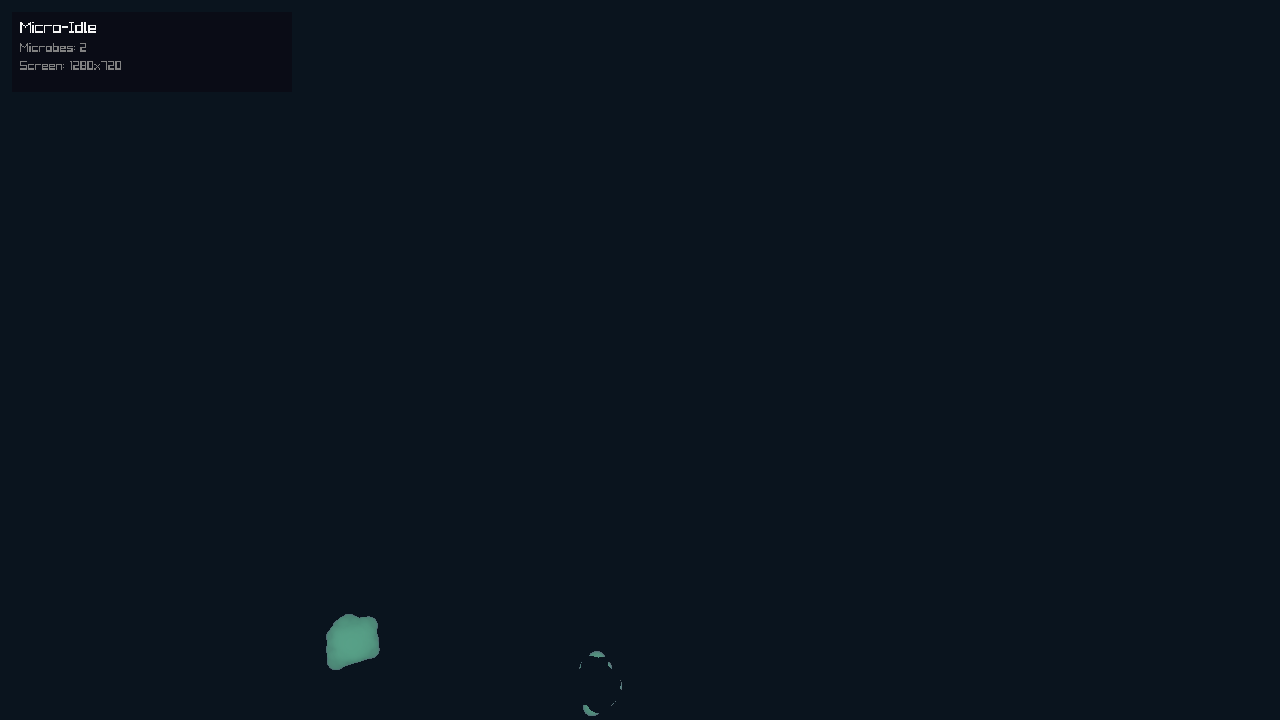
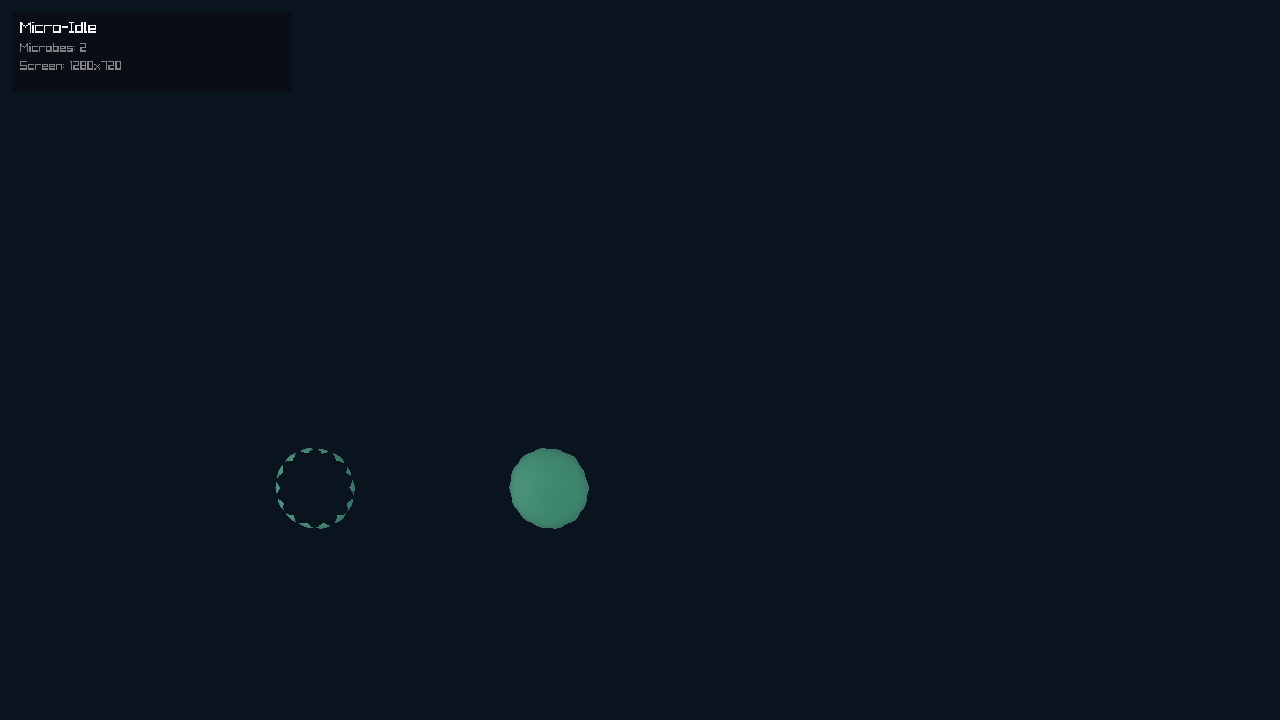
fix the stupid twin shadow bug

diff --git a/game/xpbd.c b/game/xpbd.c
@@ -209,7 +209,6 @@ struct XpbdContext {
     // Metaball shader uniform locations
     int loc_field_vp;
     int loc_field_ppm;
-    int loc_field_radius;
     int loc_surface_field_tex;
     int loc_surface_time;
     int loc_surface_threshold;
@@ -234,7 +233,8 @@ struct XpbdContext {
     int loc_collide_radius;
 
     int loc_solve_dt;
-    int loc_solve_count;
+    int loc_solve_mcount;
+    int loc_solve_cpm;
 
     int loc_pressure_dt;
     int loc_pressure_count;
@@ -242,8 +242,6 @@ struct XpbdContext {
 
     int loc_finalize_dt;
     int loc_finalize_pcount;
-    int loc_finalize_ccount;
-    int loc_finalize_mode;
 
     int loc_microbe_count;
     int loc_microbe_ppm;
@@ -287,7 +285,6 @@ static bool init_metaball_pipeline(XpbdContext *ctx) {
     // Get uniform locations
     ctx->loc_field_vp = glGetUniformLocation(ctx->field_shader, "u_vp");
     ctx->loc_field_ppm = glGetUniformLocation(ctx->field_shader, "u_particles_per_microbe");
-    ctx->loc_field_radius = glGetUniformLocation(ctx->field_shader, "u_particle_radius");
 
     ctx->loc_surface_field_tex = glGetUniformLocation(ctx->surface_shader, "u_field_texture");
     ctx->loc_surface_time = glGetUniformLocation(ctx->surface_shader, "u_time");
@@ -449,7 +446,8 @@ XpbdContext *xpbd_create(int max_microbes) {
     ctx->loc_collide_radius = glGetUniformLocation(ctx->collide_program, "u_collision_radius");
 
     ctx->loc_solve_dt = glGetUniformLocation(ctx->solve_program, "u_dt");
-    ctx->loc_solve_count = glGetUniformLocation(ctx->solve_program, "u_constraint_count");
+    ctx->loc_solve_mcount = glGetUniformLocation(ctx->solve_program, "u_microbe_count");
+    ctx->loc_solve_cpm = glGetUniformLocation(ctx->solve_program, "u_constraints_per_microbe");
 
     ctx->loc_pressure_dt = glGetUniformLocation(ctx->pressure_program, "u_dt");
     ctx->loc_pressure_count = glGetUniformLocation(ctx->pressure_program, "u_microbe_count");
@@ -457,8 +455,6 @@ XpbdContext *xpbd_create(int max_microbes) {
 
     ctx->loc_finalize_dt = glGetUniformLocation(ctx->finalize_program, "u_dt");
     ctx->loc_finalize_pcount = glGetUniformLocation(ctx->finalize_program, "u_particle_count");
-    ctx->loc_finalize_ccount = glGetUniformLocation(ctx->finalize_program, "u_constraint_count");
-    ctx->loc_finalize_mode = glGetUniformLocation(ctx->finalize_program, "u_mode");
 
     ctx->loc_microbe_count = glGetUniformLocation(ctx->microbe_update_program, "u_microbe_count");
     ctx->loc_microbe_ppm = glGetUniformLocation(ctx->microbe_update_program, "u_particles_per_microbe");
@@ -517,20 +513,35 @@ void xpbd_spawn_microbe(XpbdContext *ctx, float x, float z, int type, float seed
     int p_start = m_id * XPBD_PARTICLES_PER_MICROBE;
     int c_start = m_id * XPBD_CONSTRAINTS_PER_MICROBE;
 
-    // Particle distribution: filled disc with uniform density
-    // Ring structure: center (1) + inner (6) + middle (11) + outer (14) = 32 particles
+    // Particle distribution: irregular amoeba-like blob
+    // Use ring structure with random perturbations for organic appearance
     const int ring_counts[4] = {1, 6, 11, 14};
     const float ring_radii[4] = {0.0f, 0.35f, 0.7f, 1.05f};
+    const float TWO_PI = 2.0f * 3.14159265358979323846f;
     int particle_idx = 0;
 
     for (int ring = 0; ring < 4; ring++) {
-        int count = ring_counts[ring];
-        float radius = ring_radii[ring];
+        const int count = ring_counts[ring];
+        const float radius = ring_radii[ring];
 
         for (int i = 0; i < count; i++) {
-            float angle = (count > 1) ? ((float)i / (float)count * 2.0f * 3.14159f) : 0.0f;
-            float px = x + cosf(angle) * radius;
-            float pz = z + sinf(angle) * radius;
+            // Base angle from index
+            float angle = (count > 1) ? ((float)i / (float)count * TWO_PI) : 0.0f;
+
+            // Add random perturbations for organic, amoeba-like appearance
+            // Simple hash function for deterministic randomness
+            float hash_seed = seed * 1000.0f + (float)(ring * 100 + i);
+            float hash1 = fmodf(sinf(hash_seed * 127.1f) * 43758.5453123f, 1.0f);
+            float hash2 = fmodf(sinf(hash_seed * 1.7f * 127.1f) * 43758.5453123f, 1.0f);
+
+            float angle_jitter = (hash1 - 0.5f) * 0.8f;  // +/- 0.4 radians
+            float radius_jitter = (hash2 - 0.5f) * 0.3f;  // +/- 15% radius
+
+            angle += angle_jitter;
+            float actual_radius = radius * (1.0f + radius_jitter);
+
+            const float px = x + cosf(angle) * actual_radius;
+            const float pz = z + sinf(angle) * actual_radius;
 
             XpbdParticle *p = &ctx->particles_cpu[p_start + particle_idx];
             p->pos[0] = px;
@@ -558,26 +569,28 @@ void xpbd_spawn_microbe(XpbdContext *ctx, float x, float z, int type, float seed
     }
 
     // Simplified constraint network for stability
-    float stiffness = AMOEBA_STIFFNESS;
-    float compliance = 1.0f / (stiffness * 100.0f);  // Stiffer for shape retention
+    // Pure approach: deterministic constraint creation without conditional side effects
+    const float stiffness = AMOEBA_STIFFNESS;
+    const float base_compliance = 1.0f / (stiffness * 100.0f);
     int c_idx = 0;
 
-    #define ADD_CONSTRAINT(i1, i2, compl_mult) { \
-        XpbdParticle *p1 = &ctx->particles_cpu[p_start + (i1)]; \
-        XpbdParticle *p2 = &ctx->particles_cpu[p_start + (i2)]; \
-        float dx = p1->pos[0] - p2->pos[0]; \
-        float dz = p1->pos[2] - p2->pos[2]; \
-        float rest_len = sqrtf(dx * dx + dz * dz); \
-        if (rest_len > 0.001f && c_idx < XPBD_CONSTRAINTS_PER_MICROBE) { \
+    // Helper function-like macro: pure computation, always increments c_idx
+    #define ADD_CONSTRAINT(i1, i2, compl_mult) do { \
+        if (c_idx < XPBD_CONSTRAINTS_PER_MICROBE) { \
+            const XpbdParticle *p1 = &ctx->particles_cpu[p_start + (i1)]; \
+            const XpbdParticle *p2 = &ctx->particles_cpu[p_start + (i2)]; \
+            const float dx = p1->pos[0] - p2->pos[0]; \
+            const float dz = p1->pos[2] - p2->pos[2]; \
+            const float rest_len = sqrtf(dx * dx + dz * dz); \
             XpbdConstraint *c = &ctx->constraints_cpu[c_start + c_idx]; \
             c->p1 = p_start + (i1); \
             c->p2 = p_start + (i2); \
             c->rest_length = rest_len; \
-            c->compliance = compliance * (compl_mult); \
+            c->compliance = base_compliance * (compl_mult); \
             c->lambda = 0.0f; \
             c_idx++; \
         } \
-    }
+    } while(0)
 
     // Ring adjacency constraints
     int ring_start[4] = {0, 1, 7, 18};  // Start index of each ring
@@ -610,8 +623,7 @@ void xpbd_spawn_microbe(XpbdContext *ctx, float x, float z, int type, float seed
 
     #undef ADD_CONSTRAINT
 
-
-    // Fill remaining constraint slots (if any) with dummy constraints
+    // Fill remaining constraint slots with dummy constraints
     while (c_idx < XPBD_CONSTRAINTS_PER_MICROBE) {
         XpbdConstraint *c = &ctx->constraints_cpu[c_start + c_idx];
         c->p1 = p_start;
@@ -666,28 +678,14 @@ void xpbd_clear(XpbdContext *ctx) {
     ctx->constraint_count = 0;
 }
 
+// Simplified 3-step physics pipeline
 void xpbd_update(XpbdContext *ctx, float dt, float bounds_x, float bounds_y, float cursor_x, float cursor_z) {
-    if (!ctx || !ctx->ready) return;
-    if (ctx->particle_count == 0) return;
+    if (!ctx || !ctx->ready || ctx->particle_count == 0) return;
 
-    float cell = (bounds_x * 2.0f) / (float)GRID_W;
-    int grid_dim[2] = {GRID_W, GRID_H};
-    int groups_p = (ctx->particle_count + 255) / 256;
-    int groups_c = (ctx->constraint_count + 255) / 256;
-    int groups_m = (ctx->microbe_count + 63) / 64;
+    const int groups_p = (ctx->particle_count + 255) / 256;
+    const int groups_m = (ctx->microbe_count + 63) / 64;
 
-    // Step 1: Reset constraint lambdas
-    glUseProgram(ctx->finalize_program);
-    glUniform1f(ctx->loc_finalize_dt, dt);
-    glUniform1i(ctx->loc_finalize_pcount, ctx->particle_count);
-    glUniform1i(ctx->loc_finalize_ccount, ctx->constraint_count);
-    glUniform1i(ctx->loc_finalize_mode, 1);  // reset lambdas
-    glBindBufferBase(GL_SHADER_STORAGE_BUFFER, 0, ctx->particle_ssbo);
-    glBindBufferBase(GL_SHADER_STORAGE_BUFFER, 1, ctx->constraint_ssbo);
-    glDispatchCompute(groups_c, 1, 1);
-    glMemoryBarrier(GL_SHADER_STORAGE_BARRIER_BIT);
-
-    // Step 2: Predict positions
+    // Step 1: Predict - apply forces and velocities
     glUseProgram(ctx->predict_program);
     glUniform1f(ctx->loc_predict_dt, dt);
     glUniform1i(ctx->loc_predict_count, ctx->particle_count);
@@ -699,76 +697,27 @@ void xpbd_update(XpbdContext *ctx, float dt, float bounds_x, float bounds_y, flo
     glDispatchCompute(groups_p, 1, 1);
     glMemoryBarrier(GL_SHADER_STORAGE_BARRIER_BIT);
 
-    // Step 3: Build spatial grid
-    // Clear head buffer
-    glBindBuffer(GL_SHADER_STORAGE_BUFFER, ctx->grid_head_ssbo);
-    int clear_val = -1;
-    glClearBufferData(GL_SHADER_STORAGE_BUFFER, GL_R32I, GL_RED_INTEGER, GL_INT, &clear_val);
-
-    glUseProgram(ctx->grid_insert_program);
-    glUniform2f(ctx->loc_grid_bounds, bounds_x, bounds_y);
-    glUniform1f(ctx->loc_grid_cell, cell);
-    glUniform2i(ctx->loc_grid_dim, grid_dim[0], grid_dim[1]);
-    glUniform1i(ctx->loc_grid_count, ctx->particle_count);
+    // Step 2: Solve - enforce shape constraints (iterative)
+    glUseProgram(ctx->solve_program);
+    glUniform1f(ctx->loc_solve_dt, dt);
+    glUniform1i(ctx->loc_solve_mcount, ctx->microbe_count);
+    glUniform1i(ctx->loc_solve_cpm, XPBD_CONSTRAINTS_PER_MICROBE);
     glBindBufferBase(GL_SHADER_STORAGE_BUFFER, 0, ctx->particle_ssbo);
-    glBindBufferBase(GL_SHADER_STORAGE_BUFFER, 1, ctx->grid_head_ssbo);
-    glBindBufferBase(GL_SHADER_STORAGE_BUFFER, 2, ctx->grid_next_ssbo);
-    glDispatchCompute(groups_p, 1, 1);
-    glMemoryBarrier(GL_SHADER_STORAGE_BARRIER_BIT);
-
-    // Step 4 & 5: Iteratively solve collisions AND internal constraints
-    // (Collisions must be inside iteration loop to prevent penetration)
+    glBindBufferBase(GL_SHADER_STORAGE_BUFFER, 1, ctx->constraint_ssbo);
     for (int iter = 0; iter < XPBD_SOLVER_ITERATIONS; iter++) {
-        // Inter-microbe collisions
-        glUseProgram(ctx->collide_program);
-        glUniform1f(ctx->loc_collide_dt, dt);
-        glUniform2f(ctx->loc_collide_bounds, bounds_x, bounds_y);
-        glUniform1f(ctx->loc_collide_cell, cell);
-        glUniform2i(ctx->loc_collide_dim, grid_dim[0], grid_dim[1]);
-        glUniform1i(ctx->loc_collide_count, ctx->particle_count);
-        glUniform1f(ctx->loc_collide_radius, 1.8f);  // Keep microbes separated to prevent visual merging
-        glBindBufferBase(GL_SHADER_STORAGE_BUFFER, 0, ctx->particle_ssbo);
-        glBindBufferBase(GL_SHADER_STORAGE_BUFFER, 1, ctx->grid_head_ssbo);
-        glBindBufferBase(GL_SHADER_STORAGE_BUFFER, 2, ctx->grid_next_ssbo);
-        glDispatchCompute(groups_p, 1, 1);
-        glMemoryBarrier(GL_SHADER_STORAGE_BARRIER_BIT);
-
-        // Internal constraints
-        glUseProgram(ctx->solve_program);
-        glUniform1f(ctx->loc_solve_dt, dt);
-        glUniform1i(ctx->loc_solve_count, ctx->constraint_count);
-        glBindBufferBase(GL_SHADER_STORAGE_BUFFER, 0, ctx->particle_ssbo);
-        glBindBufferBase(GL_SHADER_STORAGE_BUFFER, 1, ctx->constraint_ssbo);
-        glDispatchCompute(groups_c, 1, 1);
+        glDispatchCompute(groups_m, 1, 1);
         glMemoryBarrier(GL_SHADER_STORAGE_BARRIER_BIT);
     }
 
-    // PRESSURE CONSTRAINT DISABLED (ROOT CAUSE)
-    // It was overriding movement forces by directly modifying positions
-    // after the solver, preventing autonomous movement and cursor avoidance.
-    // Shape is maintained by distance constraints alone.
-    //
-    // glUseProgram(ctx->pressure_program);
-    // glUniform1f(ctx->loc_pressure_dt, dt);
-    // glUniform1i(ctx->loc_pressure_count, ctx->microbe_count);
-    // glUniform1i(ctx->loc_pressure_ppm, XPBD_PARTICLES_PER_MICROBE);
-    // glBindBufferBase(GL_SHADER_STORAGE_BUFFER, 0, ctx->particle_ssbo);
-    // glBindBufferBase(GL_SHADER_STORAGE_BUFFER, 1, ctx->microbe_ssbo);
-    // glDispatchCompute(groups_m, 1, 1);
-    // glMemoryBarrier(GL_SHADER_STORAGE_BARRIER_BIT);
-
-    // Step 6: Update velocities
+    // Step 3: Finalize - update velocities from position changes
     glUseProgram(ctx->finalize_program);
     glUniform1f(ctx->loc_finalize_dt, dt);
     glUniform1i(ctx->loc_finalize_pcount, ctx->particle_count);
-    glUniform1i(ctx->loc_finalize_ccount, ctx->constraint_count);
-    glUniform1i(ctx->loc_finalize_mode, 0);  // update velocities
     glBindBufferBase(GL_SHADER_STORAGE_BUFFER, 0, ctx->particle_ssbo);
-    glBindBufferBase(GL_SHADER_STORAGE_BUFFER, 1, ctx->constraint_ssbo);
     glDispatchCompute(groups_p, 1, 1);
     glMemoryBarrier(GL_SHADER_STORAGE_BARRIER_BIT);
 
-    // Step 7: Update microbe metadata
+    // Step 4: Update - recalculate microbe centers
     glUseProgram(ctx->microbe_update_program);
     glUniform1i(ctx->loc_microbe_count, ctx->microbe_count);
     glUniform1i(ctx->loc_microbe_ppm, XPBD_PARTICLES_PER_MICROBE);
@@ -807,7 +756,6 @@ void xpbd_render(const XpbdContext *ctx, Camera3D camera) {
     glUseProgram(ctx->field_shader);
     glUniformMatrix4fv(ctx->loc_field_vp, 1, GL_FALSE, MatrixToFloatV(vp).v);
     glUniform1i(ctx->loc_field_ppm, XPBD_PARTICLES_PER_MICROBE);
-    glUniform1f(ctx->loc_field_radius, 1.2f);  // Particle influence radius (unused now, uses base_radius)
 
     glEnable(GL_BLEND);
     glBlendEquation(GL_FUNC_ADD);  // Additive blending for proper metaball field accumulation
@@ -831,7 +779,7 @@ void xpbd_render(const XpbdContext *ctx, Camera3D camera) {
     glUseProgram(ctx->surface_shader);
     glUniform1i(ctx->loc_surface_field_tex, 0);
     glUniform1f(ctx->loc_surface_time, (float)GetTime());
-    glUniform1f(ctx->loc_surface_threshold, 1.5f);  // Threshold for filled disc metaballs
+    glUniform1f(ctx->loc_surface_threshold, 0.8f);  // Lower threshold to ensure both render
 
     glActiveTexture(GL_TEXTURE0);
     glBindTexture(GL_TEXTURE_2D, ctx->field_texture);

diff --git a/game/game.c b/game/game.c
@@ -55,7 +55,7 @@ static float parse_env_float(const char *name, float fallback) {
 static GameConfig game_load_config(void) {
     GameConfig config = {0};
     config.max_count = parse_env_int("MICRO_IDLE_ENTITY_COUNT", 500);
-    config.spawn_initial = parse_env_int("MICRO_IDLE_INITIAL_ENTITIES", 2);
+    config.spawn_initial = parse_env_int("MICRO_IDLE_INITIAL_ENTITIES", 20);
     if (config.spawn_initial > config.max_count) {
         config.spawn_initial = config.max_count;
     }
@@ -114,12 +114,12 @@ bool game_init(GameState *game, uint64_t seed) {
         return false;
     }
 
-    // Spawn initial microbes at fixed positions (far apart to avoid interaction)
+    // Spawn initial microbes
     for (int i = 0; i < game->config.spawn_initial; i++) {
-        float x = (i == 0) ? -5.0f : 5.0f;  // Fixed positions far apart
+        float x = (i == 0) ? -5.0f : 5.0f;
         float z = 0.0f;
         int type = 0;
-        float s = 0.5f;  // Same seed for identical behavior
+        float s = (float)i * 0.1f;  // Different seed per microbe
         xpbd_spawn_microbe(game->xpbd, x, z, type, s);
     }
 
@@ -154,12 +154,6 @@ void game_handle_input(GameState *game, Camera3D camera, float dt, int screen_w,
     float t = -ray.position.y / ray.direction.y;
     game->cursor_world_x = ray.position.x + ray.direction.x * t;
     game->cursor_world_z = ray.position.z + ray.direction.z * t;
-
-    // DEBUG: Print cursor world position every 60 frames
-    static int frame_count = 0;
-    if (++frame_count % 60 == 0) {
-        printf("DEBUG: cursor world pos: (%.2f, %.2f)\n", game->cursor_world_x, game->cursor_world_z);
-    }
 }
 
 void game_update_fixed(GameState *game, float dt) {
